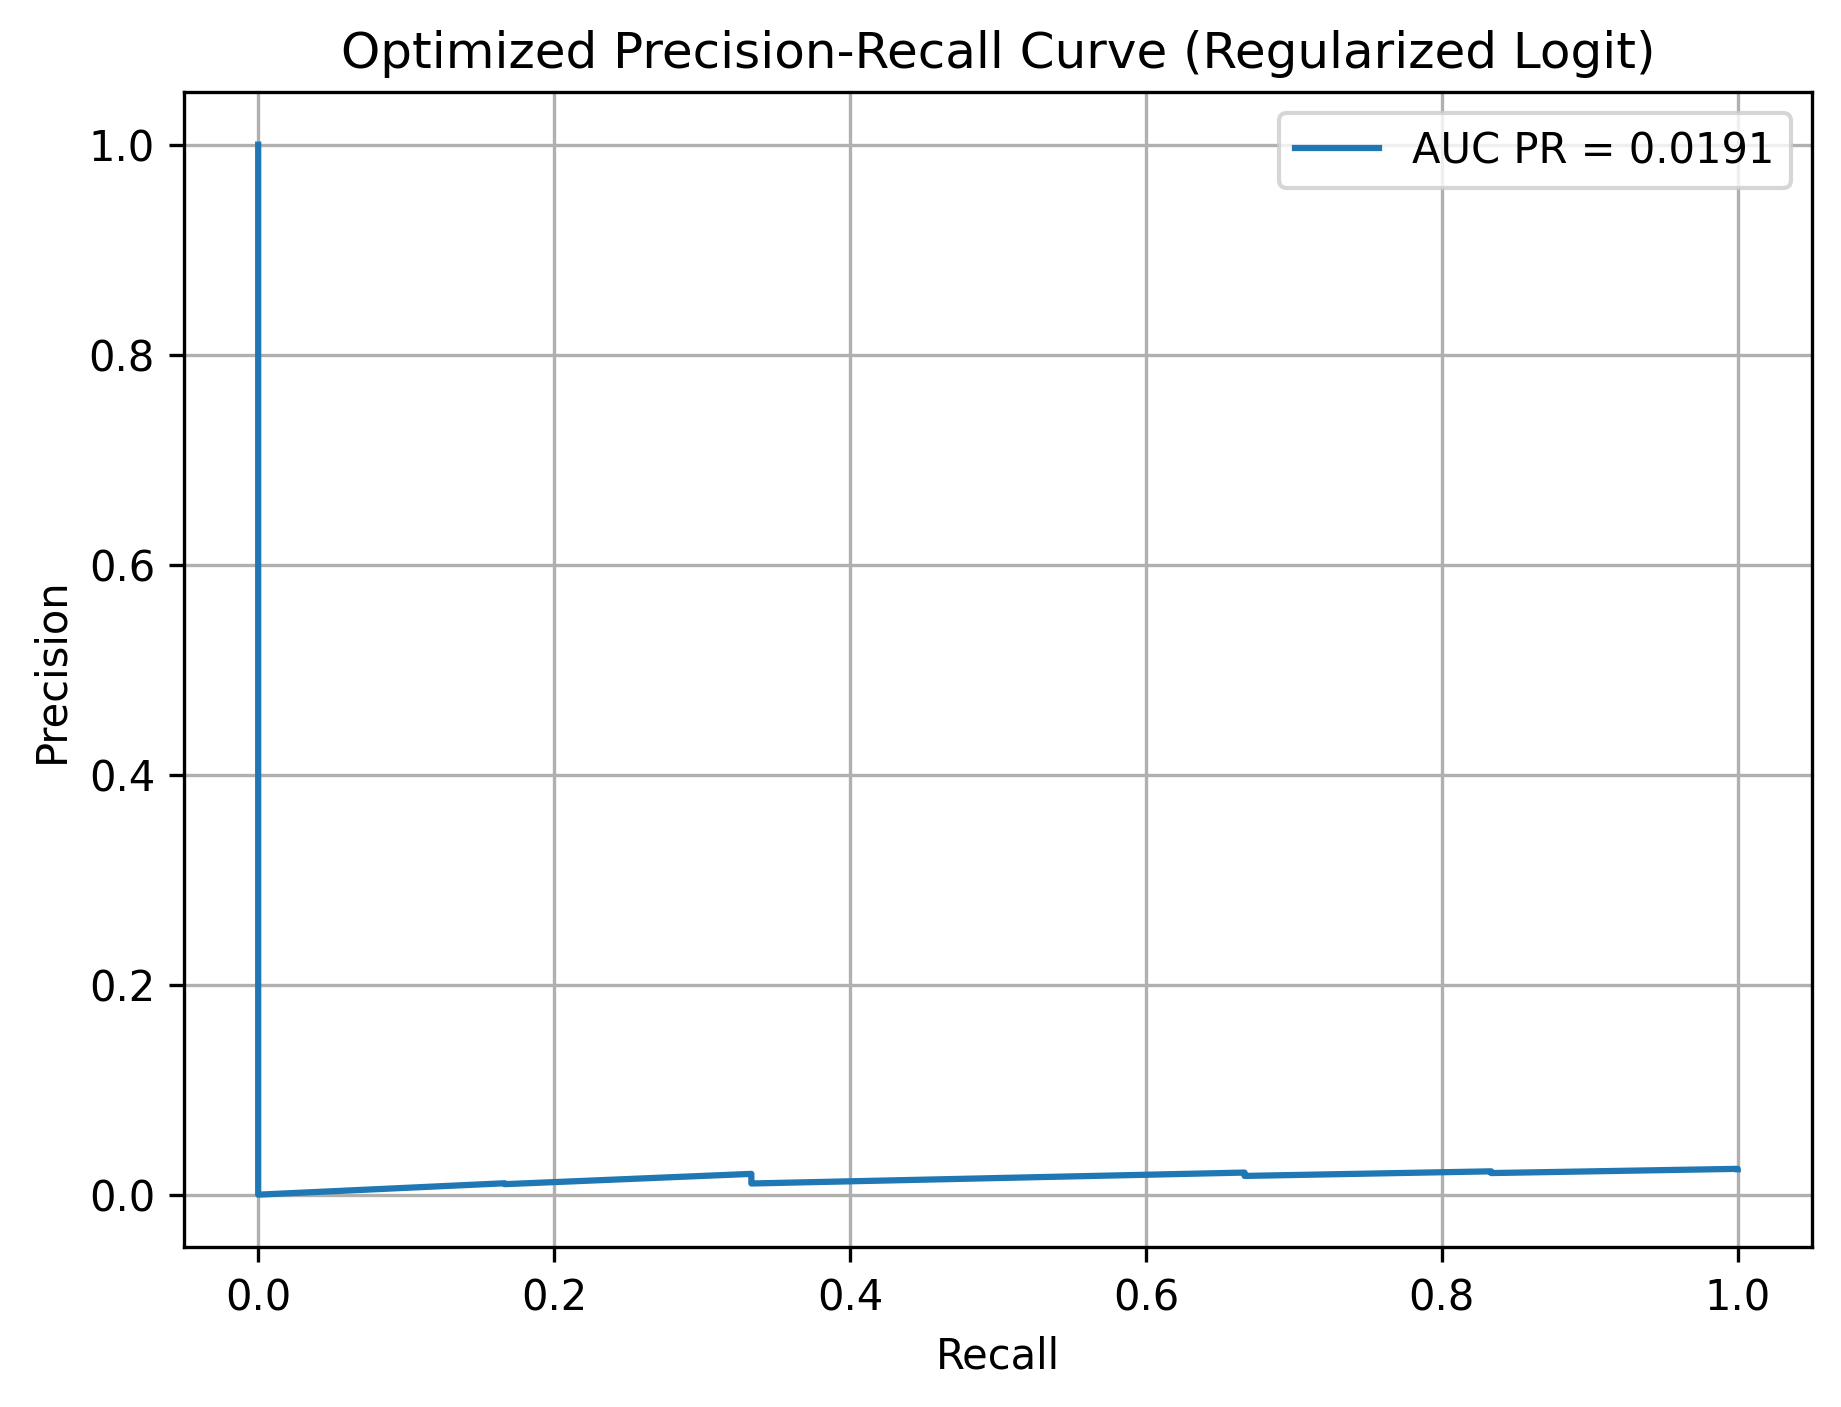
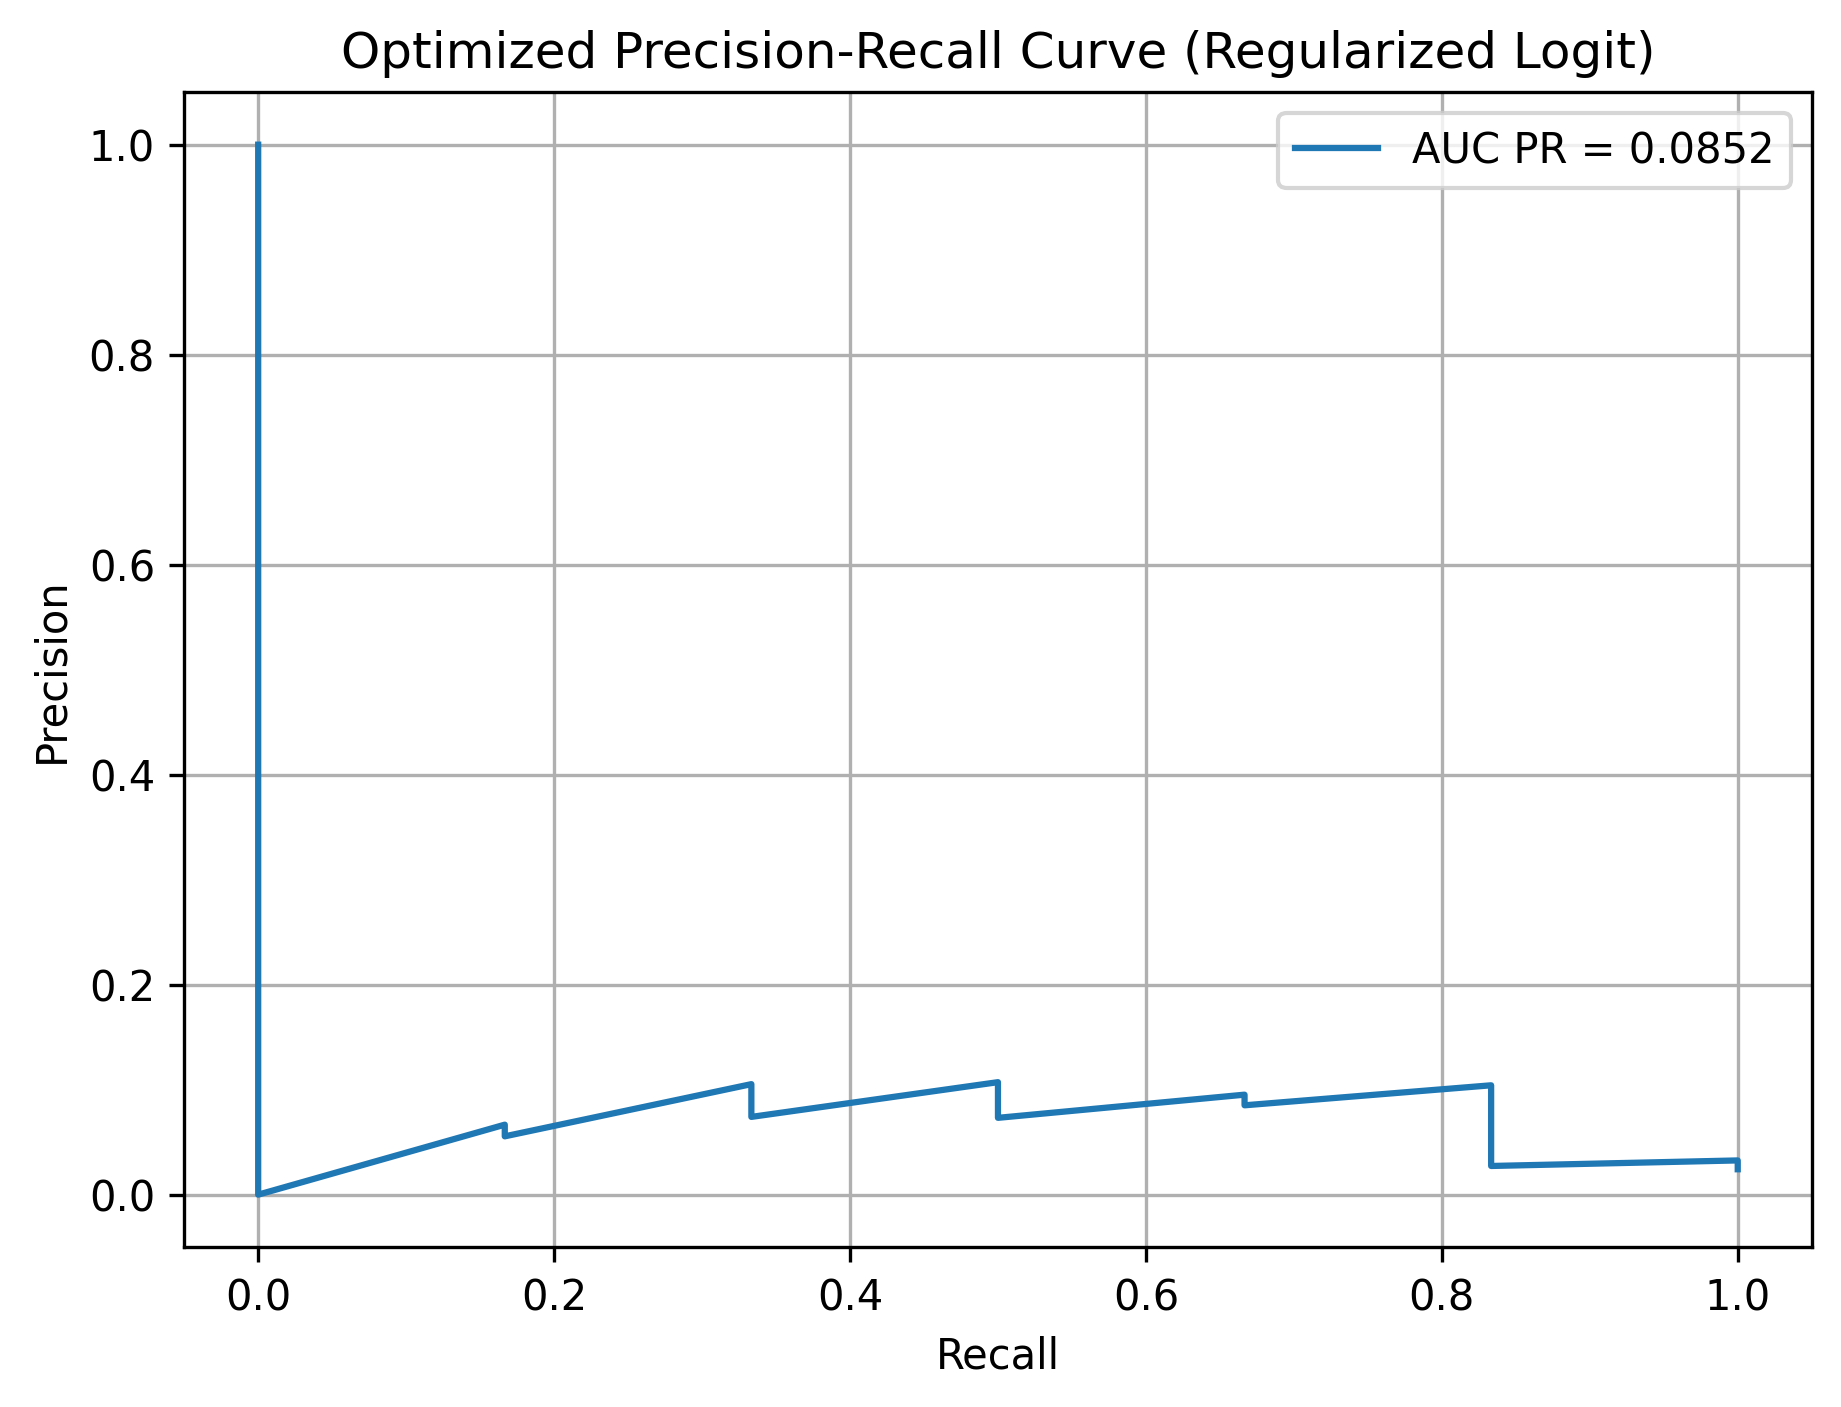
Fixed Mallinson and Lovell random-split threshold result.

Changed region(s): [[0.1548, 0.764, 0.9598, 0.8557], [0.8979, 0.0917, 0.9598, 0.1222]]

diff --git a/ml_random/mallinson_lovell_random_threshold.py b/ml_random/mallinson_lovell_random_threshold.py
@@ -98,7 +98,6 @@ reglogit_model = linear_model.LogisticRegression(
     l1_ratio = None,
     penalty = 'l2',
     solver = 'saga',
-    max_iter = 2500,
     random_state = 1337
 )
 
